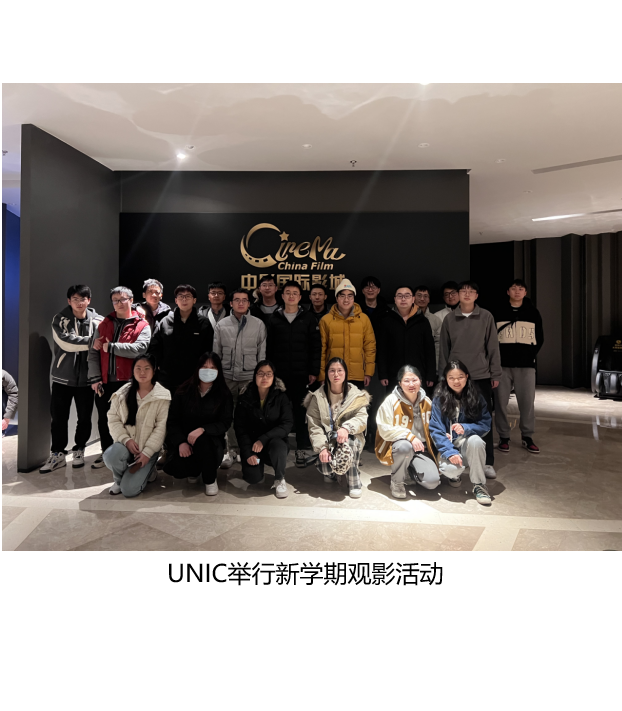
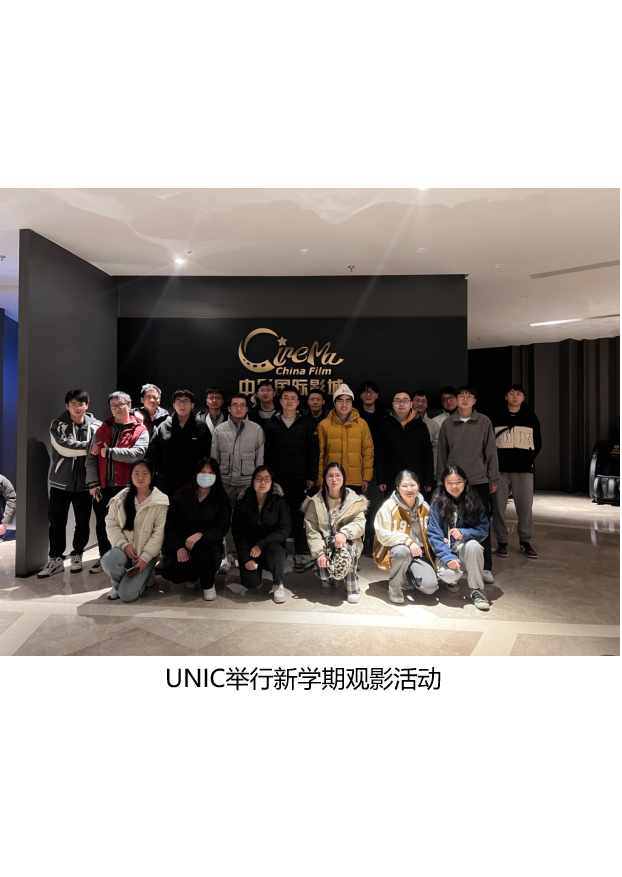
sasasasas

diff --git a/content/event/index.md b/content/event/index.md
@@ -15,7 +15,7 @@ sections:
           image:
             filename: guanying.jpg
             filters:
-              brightness: 0
+              brightness: 1
           position: center
           color: '#fff'
           fit: cover
